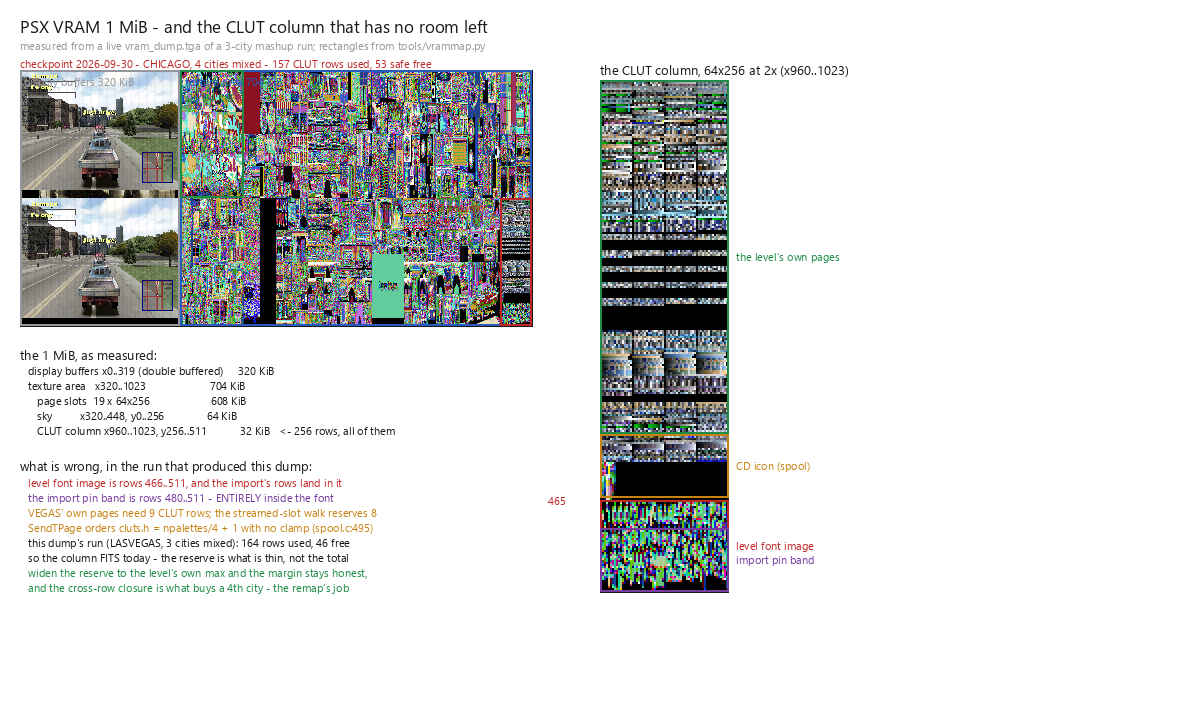
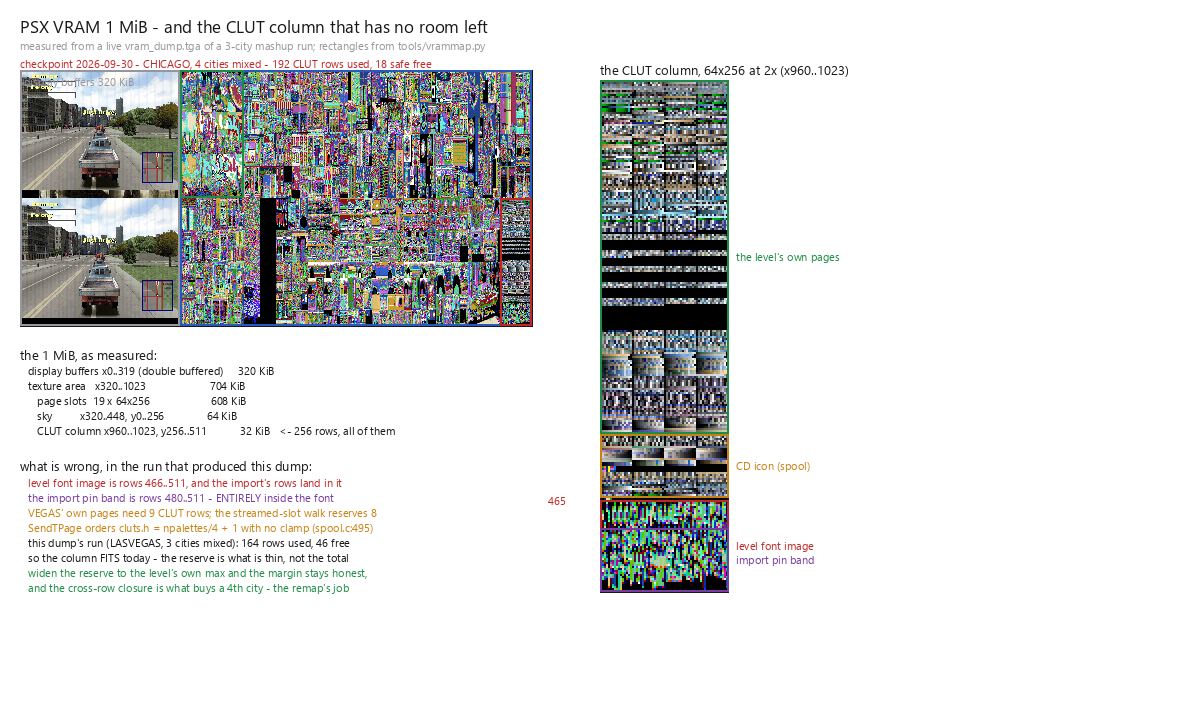
carhacks: the per-city-banks checkpoint, and the palette blocks written up (2 cities, the ceiling measured)

diff --git a/docs/CROSS_CITY.md b/docs/CROSS_CITY.md
@@ -438,11 +438,25 @@ it shows as "some vehicles" rather than as everything being wrong.
 Demand is small: **2 rows per city**. The column has 41-53 rows free, so per-city banks
 are not a VRAM budget problem - the gate is simply far stricter than the hardware.
 
-**A per-city row base is not a one-place change.** Attempting it (a 2-row band per city
-via `CarImportBankRow`, and dropping the single-city refusal) built cleanly and ran, and
-produced `uploading for 0 of its 2 rows` for every city - a regression, not a fix. The
-reason is a second site: `CarImportPin` builds `rowNeeded[]` from
-`GetCarPalIndex(sPinSet[i])` (texture.c), not from `CarPalIndexInCity`. Those two agreed
-only while every city shared one base. Changing one and not the other leaves `rowNeeded`
-empty and nothing uploads. **Reconcile both in the same change**, and read the palette map
-before/after to confirm two cities now write two different bands.
+**Resolved: a BLOCK per guest city.** `CarImportBankRow(city)` gives each guest city its
+own 8-row block (`CIV_CLUT_IMPORT_ROW + band * CIV_CLUT_BLOCK_ROWS`, with `CIV_CLUT_ROWS`
+grown 16 -> 32), and the pin builds `rowNeeded[]` from
+`CarPalIndexInCityFor(sPinSet[i], sPinCity[i])` rather than `GetCarPalIndex(sPinSet[i])`.
+
+Two traps, both paid for:
+
+- **A block is 8 rows, not as many as the city fills.** `CarPalIndexInCity` returns
+  `i + rowbase` where `i` spans `carTpages[city][0..7]`, so a 2-row band cannot hold
+  `rowbase + 6`. The first attempt used 2-row bands and every city uploaded **0 rows** -
+  the rows it needed were outside the band, so the filter matched nothing.
+- **`GetCarPalIndex` cannot answer "which city owns this page".** It asks each held city
+  in order and takes the first hit, which with three cities is simply the first city. That
+  was harmless while one city owned one shared block and fatal the moment each city had
+  its own: HAVANA uploaded, VEGAS and RIO uploaded 0. `sPinCity` already recorded each
+  page's source city, so use it.
+
+**The measured ceiling is 2 guest cities.** A city's palettes cost about **36 column rows**;
+the CLUT-safe area is 210 rows (256..465) and the level's own layout takes ~157. Two fit;
+three ran `clutpos` to 486, **21 rows into the level font**. So `CIV_CLUT_GUEST_CITIES` is
+2 and the third city is refused out loud with its numbers. Raisising it is the row
+reclamation unit's job - the gate is the column, not the table.

diff --git a/docs/vram/README.md b/docs/vram/README.md
@@ -8,3 +8,4 @@ with the image it produced in this folder. Row 1 is the **before** baseline.
 | 2026-09-30 | LASVEGAS | 4 | 164 | 46 | (0,0) 0x0 = 0 KiB | 83a7256d | the flat 8-row reserve, and LASVEGAS' own pages needing 9 |
 | 2026-09-30 | LASVEGAS | 4 | 169 | 41 | (0,0) 0x0 = 0 KiB | 5354f834 | the band reserves the level's own max rows (9 for LASVEGAS), not a flat 8; those clamps and the pin's font fallback are gone |
 | 2026-09-30 | CHICAGO | 4 | 157 | 53 | (0,0) 0x0 = 0 KiB | bf042020 | the palette map: 6 imported slots all reading civ_clut rows 8..15, one city writing 2 of them |
+| 2026-09-30 | CHICAGO | 4 | 192 | 18 | (0,0) 0x0 = 0 KiB | 330206aa | palette blocks: 2 guest cities now write their own civ_clut blocks (rows 8..15 and 16..23); the third is refused at the measured ceiling |
